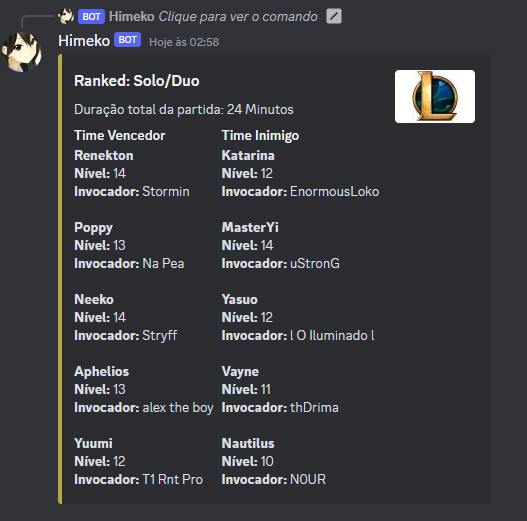
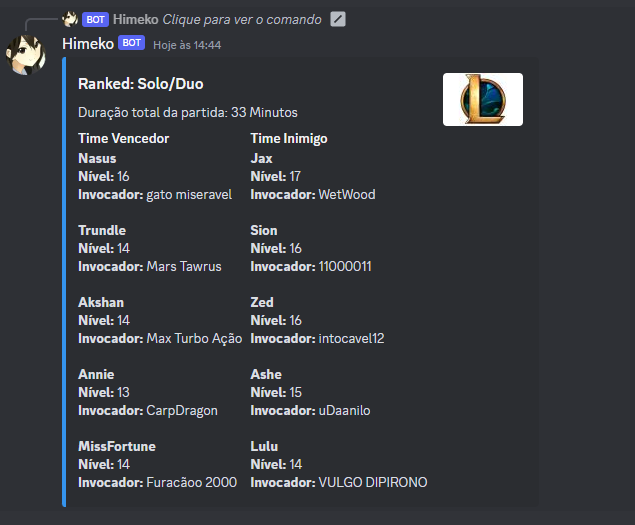
imagens atualizadas

Changed region(s): [[0.0, 0.0, 0.7287, 0.9827], [0.6983, 0.1228, 0.9108, 0.2457], [0.3947, 0.4299, 0.6376, 0.5221]]

diff --git a/README.md b/README.md
@@ -1,3 +1,8 @@
 # lol_bot
 um bot para discord que ira consumir a API da riot games e ira retornar partidas em tempo real de league of legends.
+
+comando /history
 <img src="/match_history.png">
+
+comando /profile
+<img src="/profile.png">
